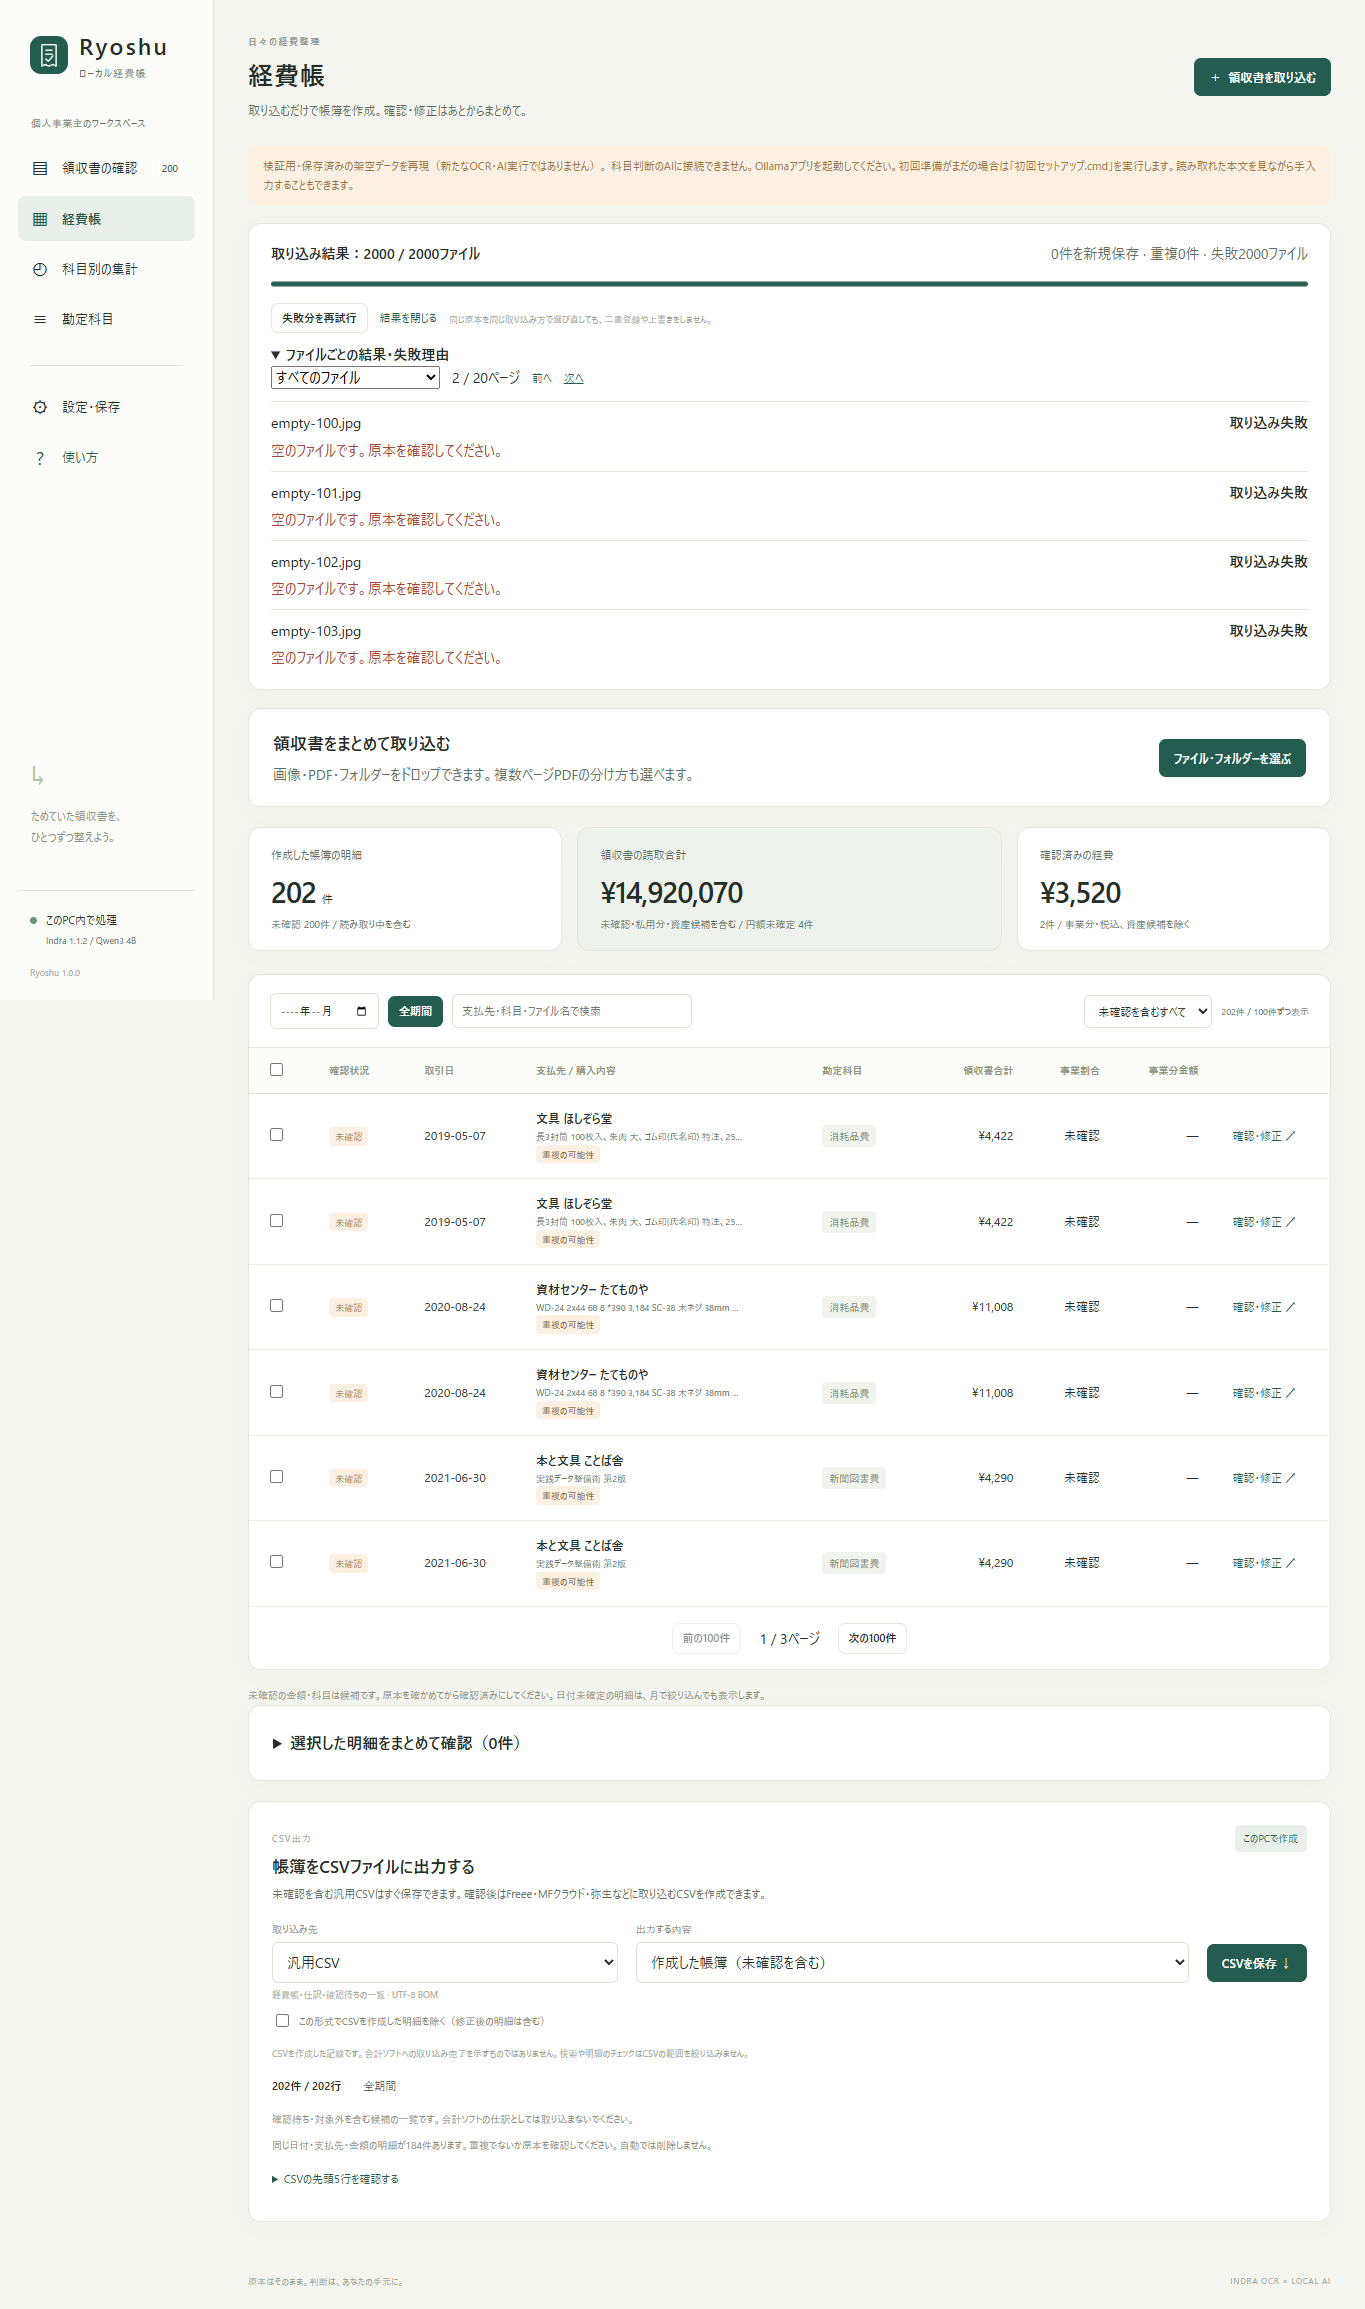
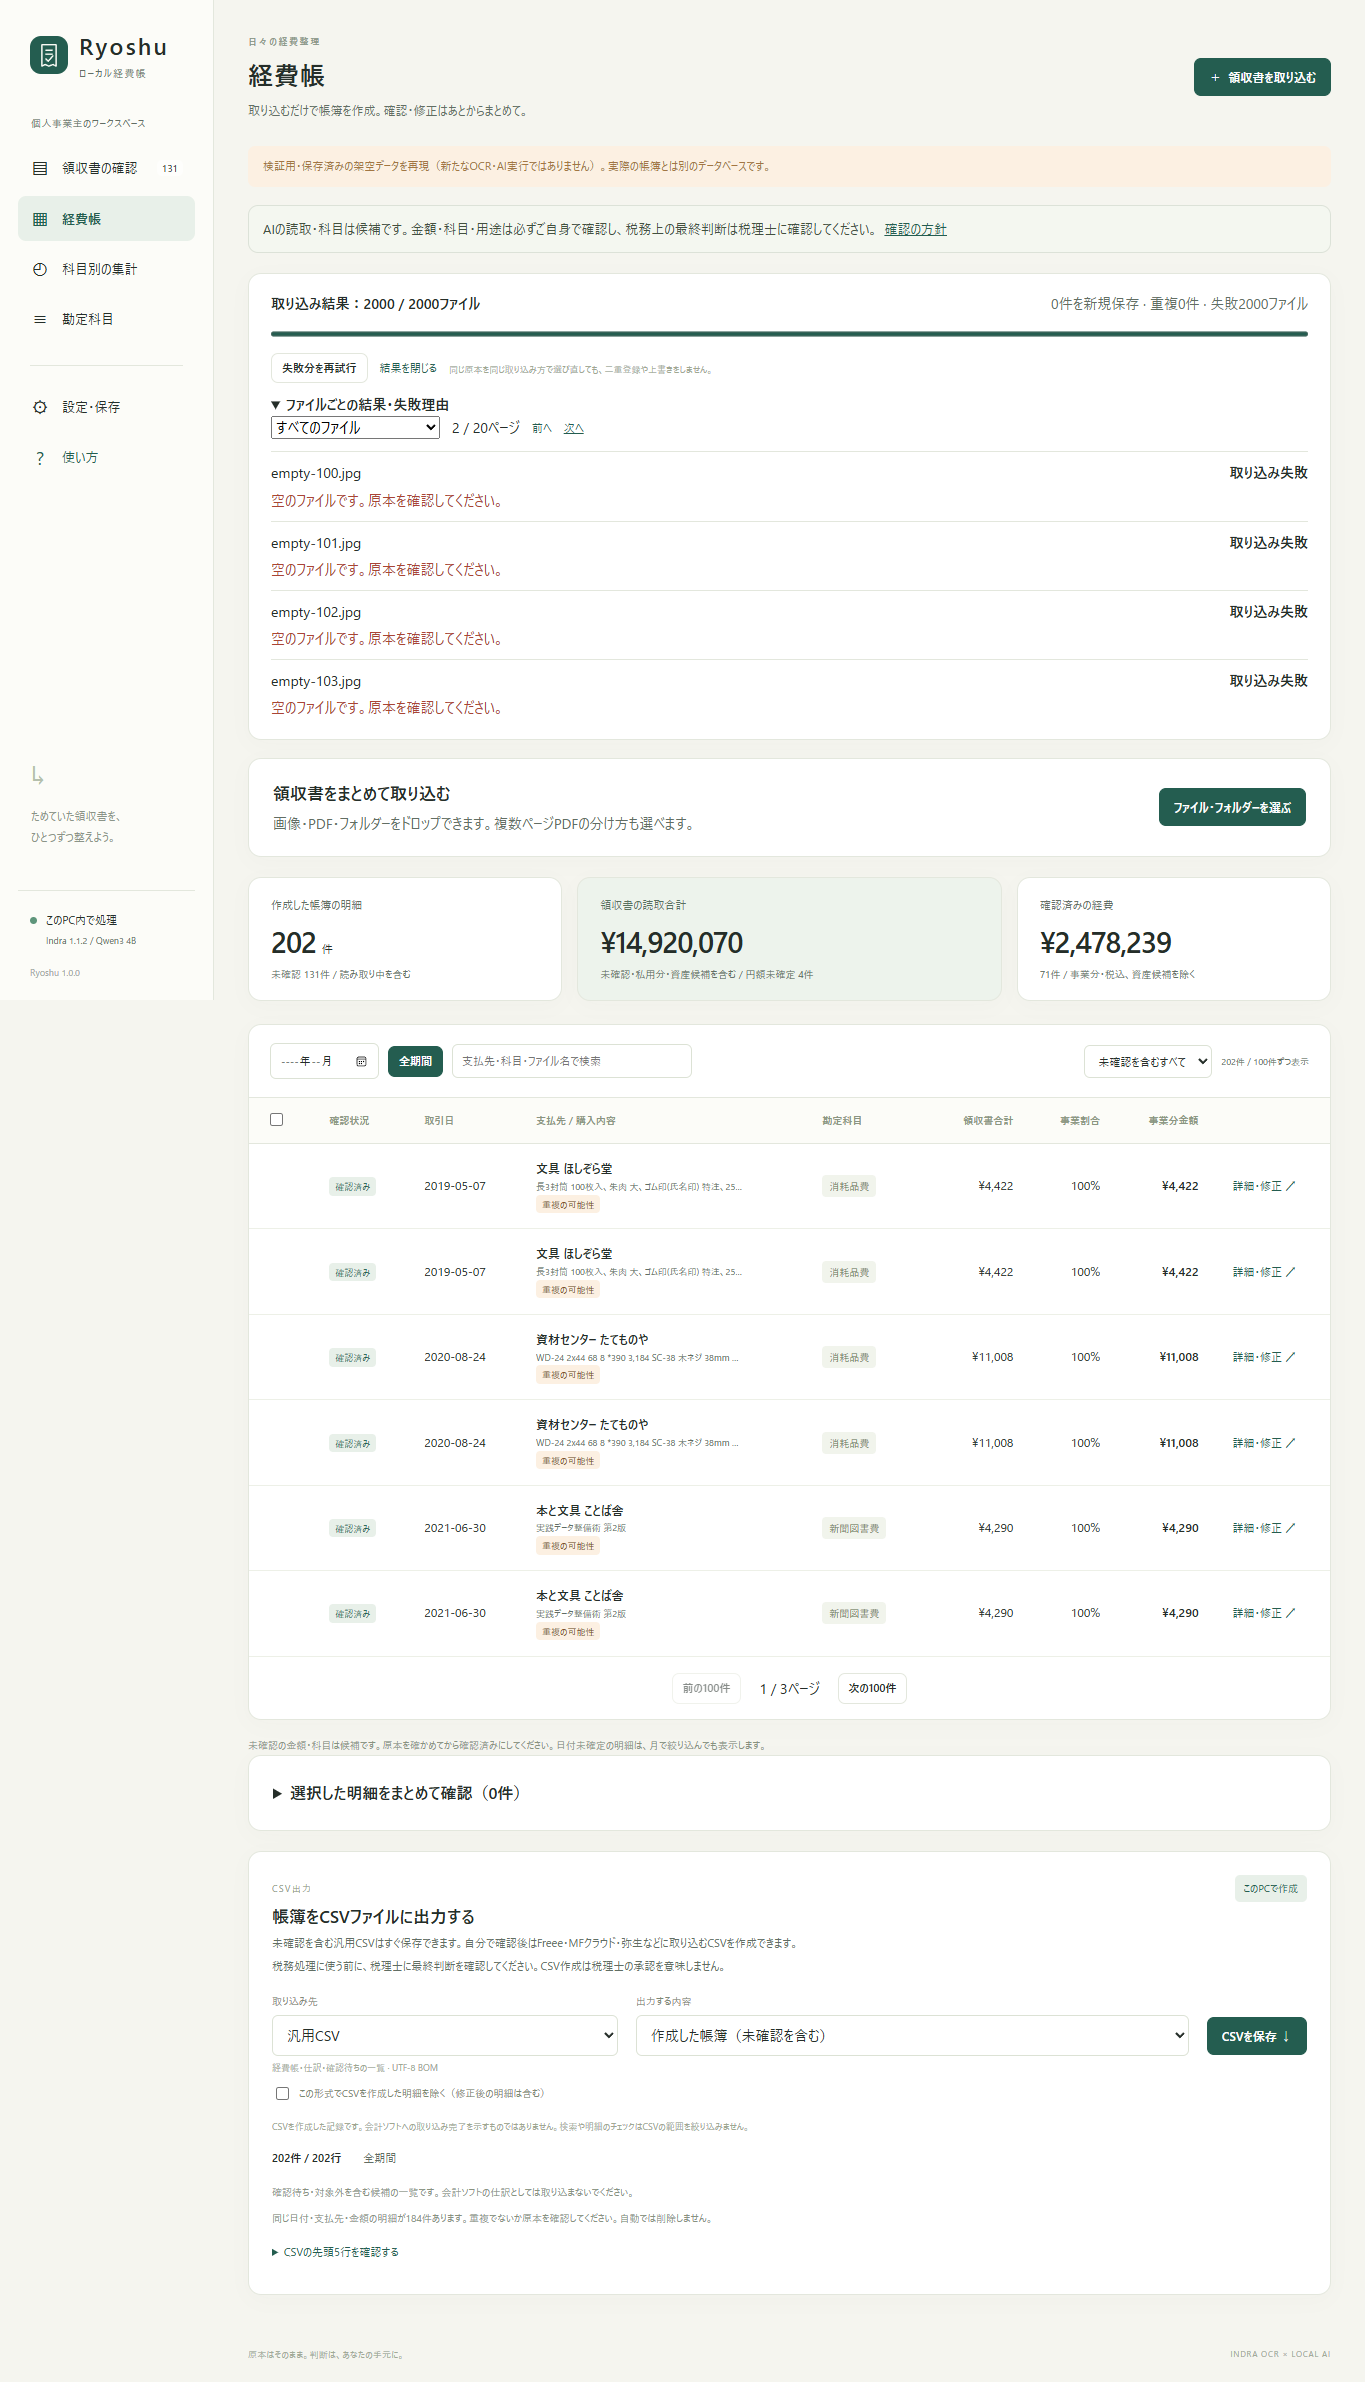
Publish v1 verification results and review policy documentation

diff --git a/docs/testing/v1/README.md b/docs/testing/v1/README.md
@@ -2,19 +2,19 @@
 
 [README](../../../README.md) / [開発時の100件のOCR・AI結果](../README.md)
 
-現在は公開候補の検証中です。レビュー指摘の修正、実際の画面操作、回帰検査の記録を確認してから公開します。
+v1.0.0では一括取り込み・あとからの確認・CSV・復元を改善しました。本人が原本と科目を確認し、税務上の最終判断は税理士に確認する[利用方針](../../REVIEW-POLICY.md)を画面にも表示します。適法性の専門家審査を受けたという意味ではありません。
 
 ## 検査結果
 
 2026-10-22時点のローカル検査です。GitHub Actionsの結果や、新たなOCR・AI実行の結果とは区別します。
 
-[候補1025426のGitHub検査2回と現在の未完了項目](check-status.json)を記録しています。配布用のソースZIPを別のフォルダーへ展開した状態でも、119件のPython検査・3件のJavaScript検査・公開内容点検が成功しました。[ZIPのSHAと検査範囲](package-check.json)
+[候補1025426当時の検査状況](check-status.json)と[その候補ZIPの検査](package-check.json)は履歴として保持します。下表と新しい実行記録が今回の検証です。最終配布ZIPとSHA-256は[GitHubリリース](https://github.com/studio-yebisu/ryoshu/releases/tag/v1.0.0)に掲載します。
 
 | 検査 | 結果 | 対象 |
 | --- | --- | --- |
-| Pythonの単体・API検査 | 127件成功 | 確定条件、返金根拠、居住用家賃の保留、同時・部分取り込み、再開、移行、CSV、バックアップ・復元など |
+| Pythonの単体・API検査 | 130件成功 | 確認条件、返金根拠、居住用家賃と保険の区別、既存明細の注意更新、同時・部分取り込み、再開、移行、CSV、バックアップ・復元など |
 | フォルダー読み取り | 3件成功 | 100件を超える列挙、入れ子、読み取り失敗、空フォルダー |
-| 実ブラウザー操作 | 21項目成功 | 100ファイル、100ページPDF、帳簿202件で操作。OCR・AI結果は保存済みデータの再現 |
+| 実ブラウザー操作 | 26項目成功 | 100ファイル、100ページPDF、帳簿202件で操作。OCR・AI結果は保存済みデータの再現 |
 | CSV統合検査 | 4形式成功 | 架空6件・7仕訳行、借貸とも299,095円。免税個人事業主として手動確認したシナリオ |
 | PowerShell構文 | 5本成功 | 導入・起動・終了・復元と起動管理の補助スクリプト |
 | 実Windows起動・終了 | 成功 | 空の専用帳簿で起動・再起動要求・接続記録欠落からの復旧・終了。通常の帳簿は変更せず、Ollamaと別の検証サーバーは継続 |
@@ -24,7 +24,33 @@
 
 [科目の細分化・大量取り込みの原典調査](RESEARCH.md)では、imozuruを用いたOpusの調査と、取得できなかった範囲を記録しています。勘定科目の内訳と品目分割を区別し、未実装の操作を案内する文言も修正しました。
 
-モデルが停止した状態で行った別の再検査では、100件のOCRが完了し、AI実行は0/100でした。通常のOCR・AI検証の成功として扱いません。検査スクリプトには、AIの準備ができていなければ取り込み前に終了する確認を追加しました。通常のローカルAIを含む再検査は未完了です。
+モデルが停止した状態で行った別の再検査では、100件のOCRが完了し、AI実行は0/100でした。通常のOCR・AI検証の成功として扱いません。検査スクリプトには、AIの準備ができていなければ取り込み前に終了する確認を追加しました。その後、Ollamaを起動した環境で通常のローカルAIを含む100件の再実行を2回完了しました。結果は以下へ分けて記録します。
+
+## 100件のOCR・AI再実行
+
+原本PDFを新規にHTTPで取り込み、Indra OCRとローカルQwen3 4Bを実行しました。保存済みOCRの流用はありません。期待値・ケースID・ケース別の説明は推論に渡さず、採点側だけで参照しています。本人確認・手動補正・仕訳登録は行っていません。
+
+| 指標 | 家賃修正前 | 家賃修正後 |
+| --- | --- | --- |
+| OCR / ローカルAI実行完了 | 100/100・100/100 | 100/100・100/100 |
+| 金額・円額未確定 | 97/97 | 97/97 |
+| 日付 | 99/100 | 99/100 |
+| 支払先名 | 86/100 | 86/100 |
+| 科目または保留条件 | 88/100 | 89/100 |
+| 提案・保留・資産検討・停止 | 92/100 | 93/100 |
+| 暫定科目（提案を期待した48件） | 47/48 | 47/48 |
+
+金額97件の内訳は非負の円額95件と、外貨で円額未確定の2件。返金V019・V080・V097の3件を分母から除いています。**同じ架空100件を改善にも用いた回帰検査で、未知の実領収書での正答率ではありません。**
+
+初回はV052の居住用家賃を、0円の駐車場明細から旅費交通費と提案しました。一般条件として居住用家賃を用途・按分確認まで保留する修正を加え、再び100件を実行してV052が保留になることを確認しました。期待値と原本は変更していません。
+
+- [修正前の100件と実行ソース](ocr-ai-100-before-fix.json) / [修正後の100件と実行ソース](ocr-ai-100.json) / [比較CSV](comparison-100.csv)
+- [変更した判定と科目データ差分の確認](ocr-ai-comparison.json)。全100件はコミット9e06ef6・シード2026-10-22.1で実行。その後の2026-10-22.2は住宅向け火災保険の誤検知を避ける変更で、100件の実OCR根拠へ両条件を適用した結果の差は0件でした。これは保存済み根拠の条件照合で、新たな推論ではありません。
+- 最終の科目データではV052・V053・V054を原本から再読取し、家賃の保留と2件の保険の候補を追加確認しています。[最終3件の実行記録](ocr-final-spot.json)
+
+残った差異を加点で隠していません。日付V011は期待値の納品日5/22に対し発行日5/20を読み、未払いとして停止しています。V003・V013・V029は用途確認を期待する原本に科目を提案しますが、アプリ内ではすべて未確認の下書きです。V006・V074・V087・V095は日付欠落により保留しながら科目候補を保持するため、科目の空欄も要求する期待値とは一致しません。V059・V060・V078は保留より強い停止、V073は年額研修の期間配分を確認する保留です。支払先名の14差異も、空白等を正規化した厳密比較のまま全件JSONに残しています。これらを税務判断の正しさとして認定したものではありません。
+
+基本の通信費は携帯・固定回線・クラウド・ドメイン・ホスティングの5件で通信費の候補が一致しました。年額SaaSは期間の確認を優先して保留しています。初期38科目の内訳は[科目一覧](../../ACCOUNTS.md)を参照してください。
 
 ## 画面で確認できること
 
@@ -40,7 +66,7 @@
 
 [375px幅の画面](screenshots/mobile.png) / [2000ファイルの結果を100件ずつ表示](screenshots/result-pages.png)
 
-[11ページ以上のPDFを取り込み直す案内](screenshots/pdf-remedy.png)は、ファイル別の詳細を開かなくても表示します。一括確認で残った理由は名前付きで保持し、1件開いて帳簿へ戻っても確認できます。結果の保持は同じブラウザータブ内です。
+[11ページ以上のPDFを取り込み直す案内](screenshots/pdf-remedy.png)は、ファイル別の詳細を開かなくても表示します。一括確認で残った理由は名前付きで保持し、1件開いて帳簿へ戻っても確認できます。結果の保持は同じブラウザータブ内です。[2回目の100件処理で通信を切った画面](screenshots/interrupted-batch.png)では、保存済みの明細を残し、未処理分を名前付きで案内することも確認しました。
 
 ## 大量データの測定
 

diff --git a/README.md b/README.md
@@ -6,7 +6,7 @@
 
 **AIの読取・科目は候補です。原本・金額・科目・用途は必ずご自身で確認し、税務上の最終判断は税理士に確認してください。** 「確認済み」は利用者による確認操作の状態で、税理士の承認や税法への適合を表すものではありません。[確認方針と提供範囲](docs/REVIEW-POLICY.md)
 
-**v1.0.0に向けて公開前の検証中**です。Windows / Python 3.12 / CPUで確認しています。
+**v1.0.0**。Windows / Python 3.12 / CPUで確認しています。[リリースと配布ZIP](https://github.com/studio-yebisu/ryoshu/releases/tag/v1.0.0)
 
 **[テスト画像と100件の検証結果](docs/testing/README.md)** · **[全100件の画像一覧](docs/testing/gallery.md)** · [v1.0.0の改善・レビュー・検証](docs/testing/v1/README.md) · [動作要件](docs/REQUIREMENTS.md) · [使い方](docs/GUIDE.md) · [収録38科目と分類範囲](docs/ACCOUNTS.md) · [CSV仕様](docs/CSV-EXPORT.md)
 
@@ -49,7 +49,7 @@ CPU・モデル版などの[確認済み環境と詳しい要件](docs/REQUIREME
 
 [検証ページ](docs/testing/README.md)で、使った架空領収書の画像、元のPDF、期待値、修正前後の結果、残った差異、手動補正を確認できます。[比較CSV](docs/testing/comparison-100.csv)と[結果JSON](docs/testing/results.json)も同梱しています。アプリの「設定・保存」からも開けます。
 
-100件をHTTP取込・Indra OCR・ローカルモデルへ通しました。修正後は金額・円額未確定97/97、日付99/100、暫定科目47/48。返金3件は金額の分母から除外しています。**修正に使った同じ100件の回帰検査であり、未知の実物領収書の正答率ではありません。** 全指標と分母、期待値との判断差は検証ページに記載しています。
+100件をHTTP取込・Indra OCR・ローカルモデルへ通し、v1でもOCR・AIを再実行しました。[v1の再検証と残った差異](docs/testing/v1/README.md#100件のocrai再実行)。修正後は金額・円額未確定97/97、日付99/100、暫定科目47/48。返金3件は金額の分母から除外しています。**修正に使った同じ100件の回帰検査であり、未知の実物領収書の正答率ではありません。** 全指標と分母、期待値との判断差は検証ページに記載しています。
 
 CSVは架空の6件を手動確認した別の検査で、4形式の生成・再読込と借貸の一致を確認しました。各会計ソフトの実アカウントへの取り込みは未実施です。
 

diff --git a/CHANGELOG.md b/CHANGELOG.md
@@ -1,6 +1,6 @@
 # 変更履歴
 
-## 1.0.0 — 公開候補（2026-10-22）
+## 1.0.0 — 2026-10-22
 
 - 大量ファイル・フォルダーの取り込み、進捗・一時停止・再開・失敗分再試行を追加。
 - PDF単位とページ単位の取り込みを明示選択し、分割前の元PDFと対応関係を保持。
@@ -13,6 +13,7 @@
 - 初回準備・起動・終了を日本語化し、ローカルの使い方を同梱。
 - 居住用家賃の科目を用途・按分の確認まで保留し、更新前の未確認明細にも新しい注意を反映。利用者の入力と確認済み仕訳は保持。
 - 金額・科目・用途はご自身で確認し、税務上の最終判断は税理士に確認する利用方針を画面・説明に明記。
+- 一括確認中の通信切断でも保存済みの結果を保持し、残件と再確認の手順を表示。
 
 ## 0.4.0 — 2026-10-21
 
